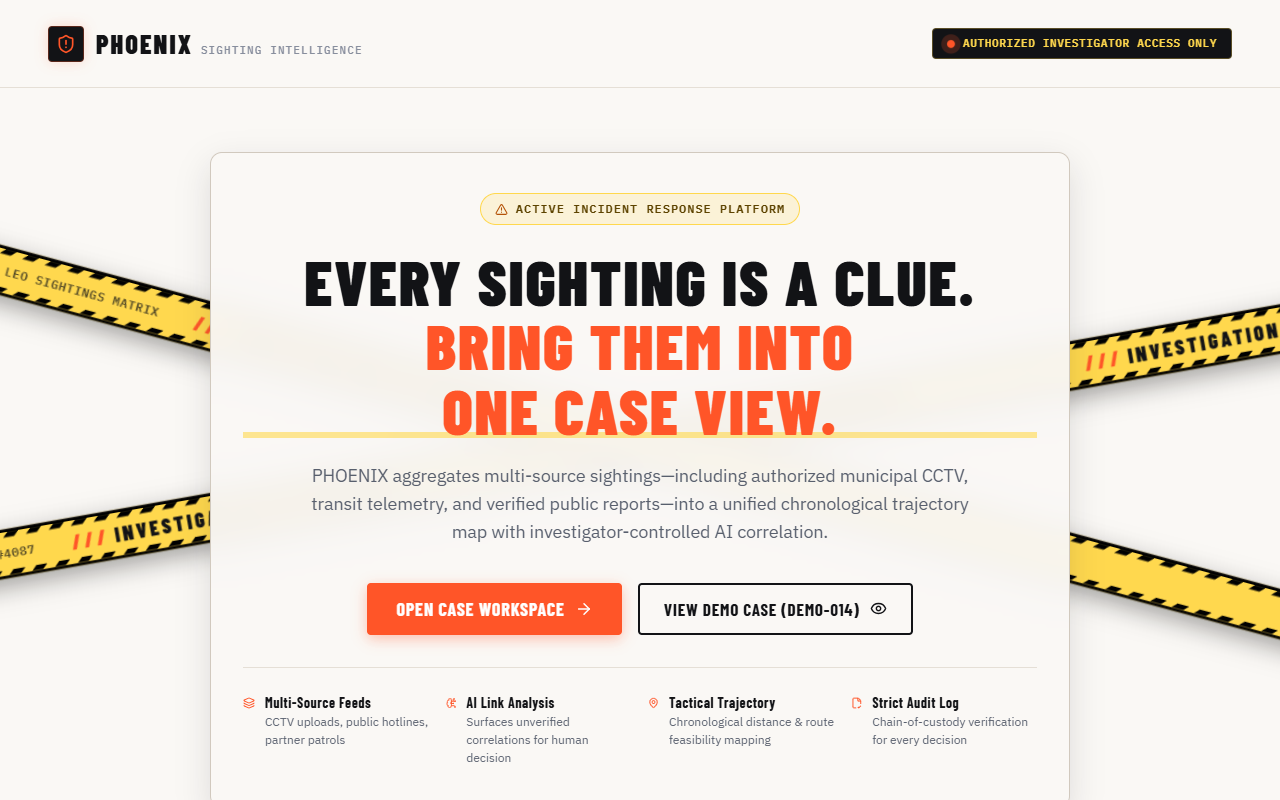
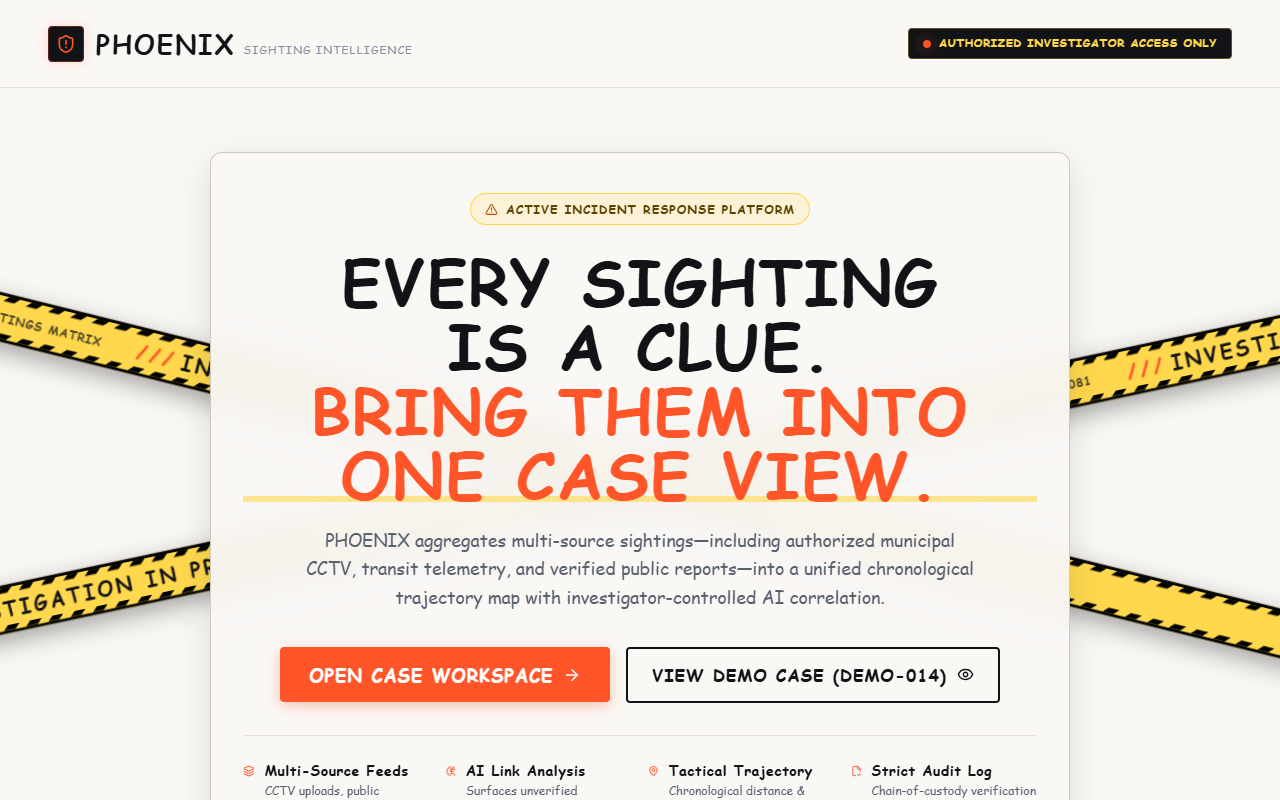
Style: update typography to Comic Sans across all components and headings

diff --git a/src/index.css b/src/index.css
@@ -35,9 +35,9 @@
   --border-charcoal: #2A2E38;
 
   /* Typography */
-  --font-heading: 'Barlow Condensed', -apple-system, BlinkMacSystemFont, sans-serif;
-  --font-body: 'IBM Plex Sans', -apple-system, BlinkMacSystemFont, sans-serif;
-  --font-mono: 'IBM Plex Mono', monospace;
+  --font-heading: 'Comic Sans MS', 'Comic Sans', cursive, sans-serif;
+  --font-body: 'Comic Sans MS', 'Comic Sans', cursive, sans-serif;
+  --font-mono: 'Comic Sans MS', 'Comic Sans', cursive, monospace;
 
   /* Elevation */
   --shadow-sm: 0 1px 2px rgba(18, 19, 22, 0.05);
